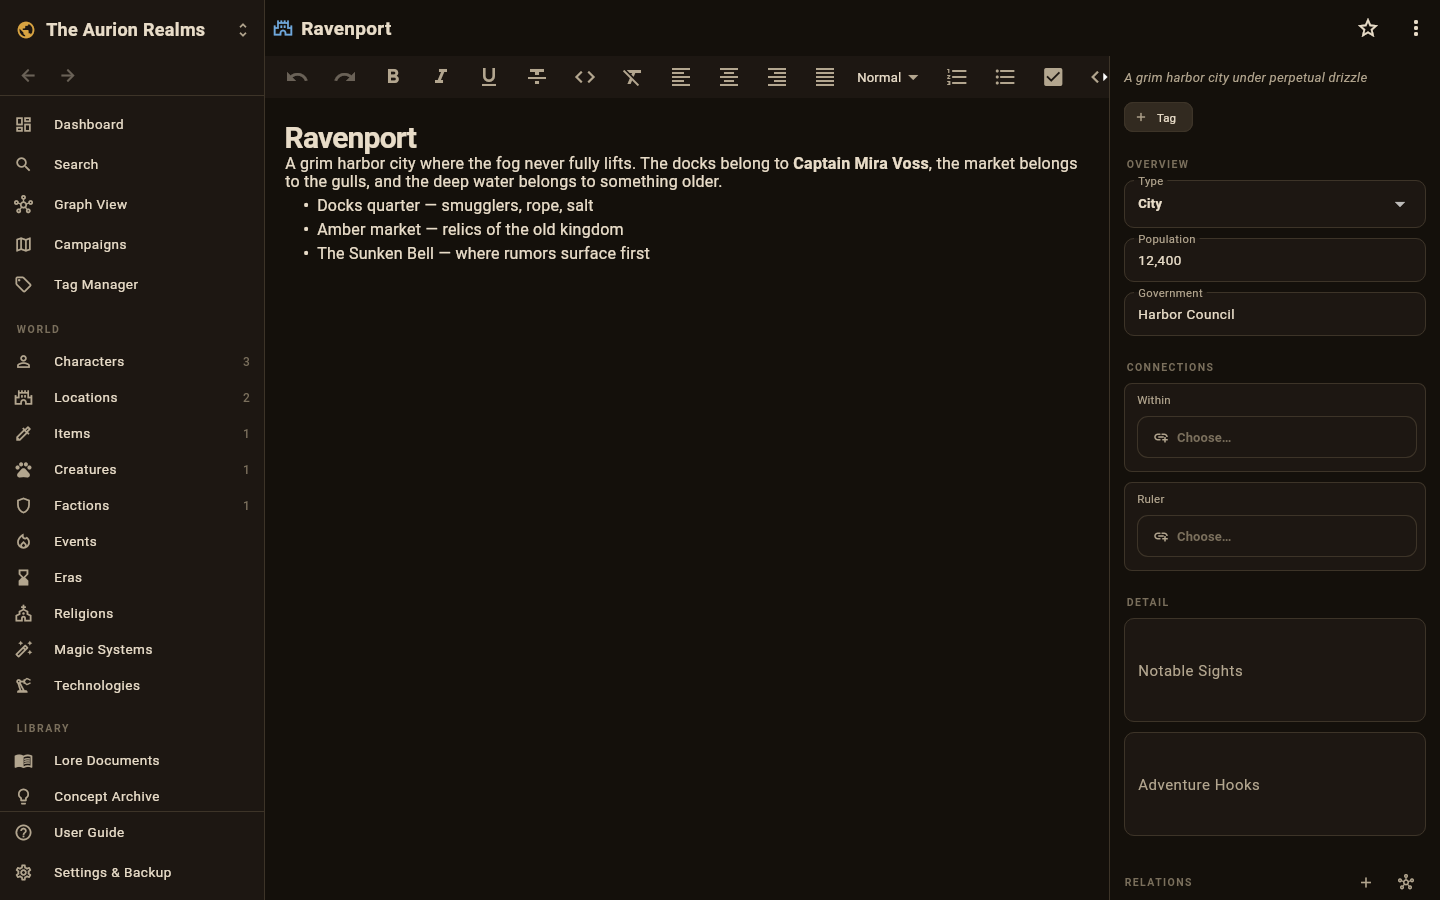
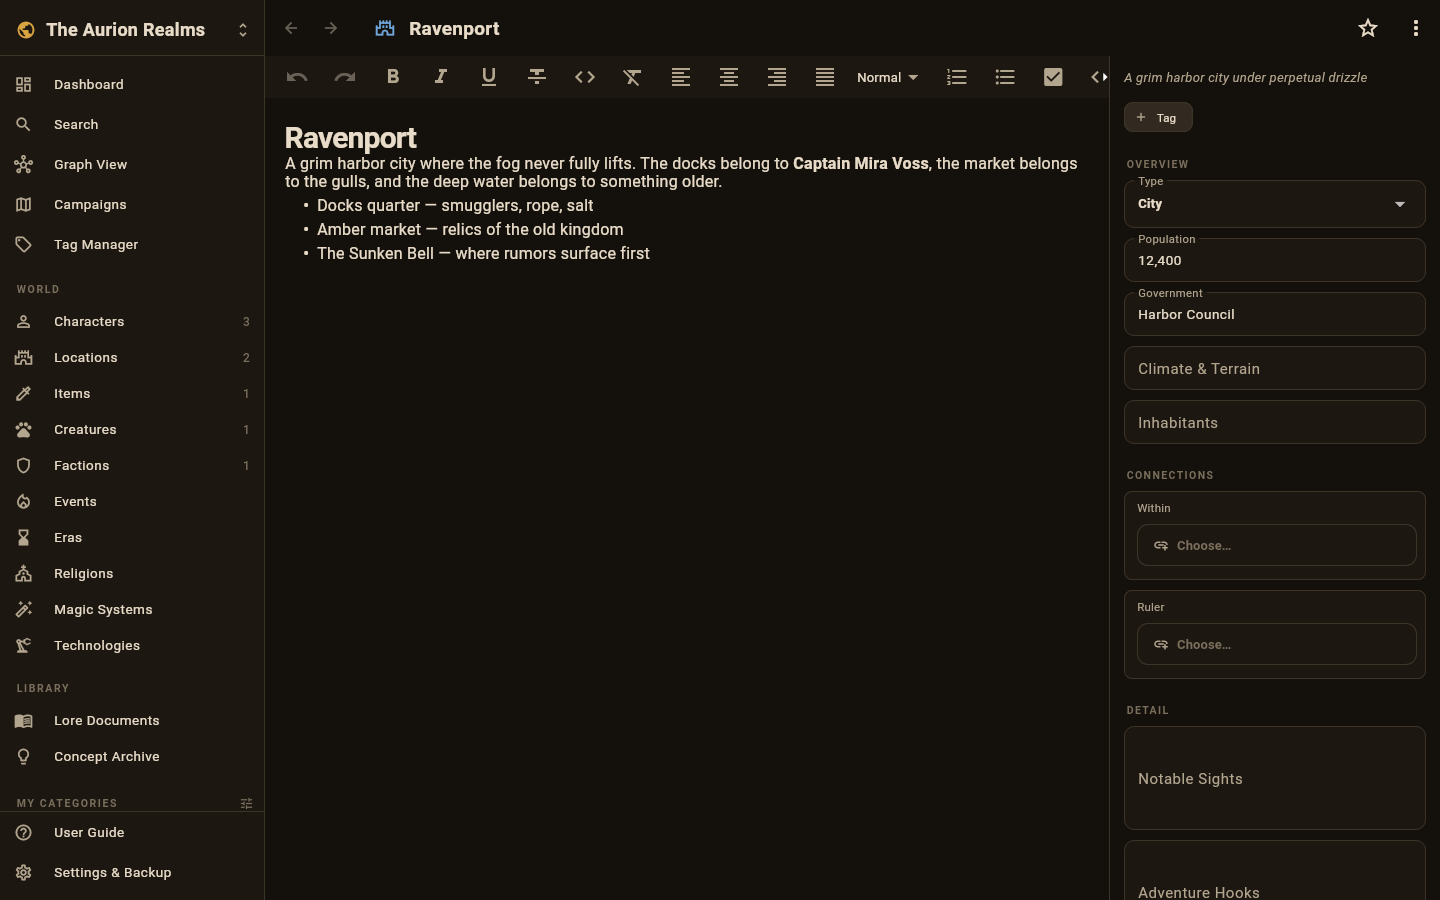
Navigation polish: browser-style chrome where users expect it
* Back/Forward arrows moved from the sidebar to the top-left of every
  page's app bar (list, entry, search, graph, campaigns, settings, help,
  dashboard) — the browser/Obsidian position; the rail and bottom bar
  keep their compact copies, the sidebar row is gone.
* The kind icon in an entry's app bar is now a breadcrumb: click to jump
  to that entry's section list (tooltip shows the section name,
  including custom categories).
* Ctrl+K / Cmd+K jumps to the current world's search from anywhere.
* Mouse side buttons (back/forward) walk the navigation history, like in
  every browser.
* User-guide tips updated in all five languages.

diff --git a/lib/app/app.dart b/lib/app/app.dart
@@ -1,5 +1,6 @@
 import 'dart:async';
 
+import 'package:flutter/gestures.dart';
 import 'package:flutter/material.dart';
 import 'package:flutter/services.dart';
 import 'package:flutter_quill/flutter_quill.dart';
@@ -34,6 +35,10 @@ class _ForwardIntent extends Intent {
   const _ForwardIntent();
 }
 
+class _QuickSearchIntent extends Intent {
+  const _QuickSearchIntent();
+}
+
 
 class _GmhAppState extends ConsumerState<GmhApp> {
   late final GoRouter _router =
@@ -60,6 +65,14 @@ class _GmhAppState extends ConsumerState<GmhApp> {
   void dispose() {
     _router.dispose();
     super.dispose();
+  }
+
+  /// Ctrl/Cmd+K: jump to the current world's search from anywhere.
+  void _goToSearch() {
+    final location = _router.routerDelegate.currentConfiguration.uri.path;
+    final worldId =
+        RegExp(r'^/w/([^/]+)/').firstMatch(location)?.group(1);
+    if (worldId != null) _router.go(Routes.search(worldId));
   }
 
   /// App-level fallback for [DismissIntent]: reached only when nothing
@@ -93,6 +106,11 @@ class _GmhAppState extends ConsumerState<GmhApp> {
             const _BackIntent(),
         LogicalKeySet(LogicalKeyboardKey.alt, LogicalKeyboardKey.arrowRight):
             const _ForwardIntent(),
+        // Quick switch to search, the Obsidian/Notion muscle-memory combo.
+        LogicalKeySet(LogicalKeyboardKey.control, LogicalKeyboardKey.keyK):
+            const _QuickSearchIntent(),
+        LogicalKeySet(LogicalKeyboardKey.meta, LogicalKeyboardKey.keyK):
+            const _QuickSearchIntent(),
       },
       actions: {
         ...WidgetsApp.defaultActions,
@@ -104,6 +122,8 @@ class _GmhAppState extends ConsumerState<GmhApp> {
                 ref.read(navHistoryProvider.notifier).goForward()),
         DismissIntent: CallbackAction<DismissIntent>(
             onInvoke: (_) => _onEscape()),
+        _QuickSearchIntent: CallbackAction<_QuickSearchIntent>(
+            onInvoke: (_) => _goToSearch()),
       },
       debugShowCheckedModeBanner: false,
       theme: GmhTheme.light(),
@@ -117,7 +137,19 @@ class _GmhAppState extends ConsumerState<GmhApp> {
         // whenever this builder runs after the shell set the style.
         GmhColors.palette = GmhStyle.paletteFor(
             GmhStyle.current, Theme.of(context).brightness);
-        return child!;
+        // Mouse side buttons navigate history, like in every browser.
+        return Listener(
+          behavior: HitTestBehavior.translucent,
+          onPointerDown: (event) {
+            if (event.kind != PointerDeviceKind.mouse) return;
+            if (event.buttons == kBackMouseButton) {
+              ref.read(navHistoryProvider.notifier).goBack();
+            } else if (event.buttons == kForwardMouseButton) {
+              ref.read(navHistoryProvider.notifier).goForward();
+            }
+          },
+          child: child!,
+        );
       },
       routerConfig: _router,
       locale: locale,

diff --git a/lib/features/shell/app_shell.dart b/lib/features/shell/app_shell.dart
@@ -13,6 +13,7 @@ import '../../app/nav_state.dart';
 import '../categories/category_ui.dart';
 import '../tags/tag_manager_sheet.dart';
 import '../categories/manage_categories_sheet.dart';
+import 'history_buttons.dart';
 import 'ui_providers.dart';
 
 /// Adaptive navigation shell:
@@ -73,38 +74,6 @@ class AppShell extends ConsumerWidget {
     // subtree (editor state, graph simulation, scroll positions).
     return Theme(
         data: GmhStyle.themeFor(style, brightness), child: scaffold);
-  }
-}
-
-/// Browser-style back/forward controls fed by the navigation history.
-class _HistoryButtons extends ConsumerWidget {
-  final bool compact;
-  final bool vertical;
-  const _HistoryButtons({this.compact = false, this.vertical = false});
-
-  @override
-  Widget build(BuildContext context, WidgetRef ref) {
-    final history = ref.watch(navHistoryProvider);
-    final controller = ref.read(navHistoryProvider.notifier);
-    final size = compact ? 18.0 : 19.0;
-    return Flex(
-      direction: vertical ? Axis.vertical : Axis.horizontal,
-      mainAxisSize: MainAxisSize.min,
-      children: [
-        IconButton(
-          tooltip: '${context.l10n.navBack} (Alt+←)',
-          icon: Icon(Icons.arrow_back, size: size),
-          onPressed: history.canGoBack ? controller.goBack : null,
-          visualDensity: VisualDensity.compact,
-        ),
-        IconButton(
-          tooltip: '${context.l10n.navForward} (Alt+→)',
-          icon: Icon(Icons.arrow_forward, size: size),
-          onPressed: history.canGoForward ? controller.goForward : null,
-          visualDensity: VisualDensity.compact,
-        ),
-      ],
-    );
   }
 }
 
@@ -177,10 +146,6 @@ class _Sidebar extends ConsumerWidget {
                 ],
               ),
             ),
-          ),
-          Padding(
-            padding: const EdgeInsets.symmetric(horizontal: 8),
-            child: Row(children: const [_HistoryButtons()]),
           ),
           const Divider(),
           Expanded(
@@ -541,7 +506,7 @@ class _Rail extends StatelessWidget {
             icon: Icon(Icons.public, color: GmhColors.ember),
             onPressed: () => context.go(Routes.worlds()),
           ),
-          const _HistoryButtons(compact: true, vertical: true),
+          const HistoryButtons(compact: true, vertical: true),
         ],
       ),
       destinations: [
@@ -582,7 +547,7 @@ class _BottomNav extends StatelessWidget {
           children: [
             const Padding(
               padding: EdgeInsets.only(left: 2),
-              child: _HistoryButtons(compact: true),
+              child: HistoryButtons(compact: true),
             ),
             Expanded(
               child: NavigationBar(

diff --git a/lib/l10n/app_localizations_ru.dart b/lib/l10n/app_localizations_ru.dart
@@ -1253,7 +1253,7 @@ class AppLocalizationsRu extends AppLocalizations {
 
   @override
   String get helpTipsBody =>
-      'Alt+← / Alt+→ — навигация назад и вперёд. Наберите @ в редакторе, чтобы ссылаться на записи прямо при письме. Зажмите вкладки панели, поля конструктора или плитки галереи, чтобы перетащить их. Правый клик (или долгое нажатие) по вложению — переименование, замена, обложка. Переключатель сетка/список запоминается для каждого раздела. Сортировка, фильтры и выбранная кампания тоже запоминаются — приложение всегда открывается там, где вы остановились.';
+      'Alt+← / Alt+→ — навигация назад и вперёд. Наберите @ в редакторе, чтобы ссылаться на записи прямо при письме. Зажмите вкладки панели, поля конструктора или плитки галереи, чтобы перетащить их. Правый клик (или долгое нажатие) по вложению — переименование, замена, обложка. Переключатель сетка/список запоминается для каждого раздела. Сортировка, фильтры и выбранная кампания тоже запоминаются — приложение всегда открывается там, где вы остановились. Ctrl+K мгновенно открывает поиск; боковые кнопки мыши листают историю, а стрелки навигации — слева вверху каждой страницы.';
 
   @override
   String get helpScreenshotCaption =>

diff --git a/lib/features/entities/entity_screen.dart b/lib/features/entities/entity_screen.dart
@@ -11,6 +11,7 @@ import '../../domain/models/document_model.dart';
 import '../../domain/models/entity.dart';
 import '../categories/category_ui.dart';
 import '../editor/lore_editor.dart';
+import '../shell/history_buttons.dart';
 import '../shell/ui_providers.dart';
 import '../attachments/attachments_panel.dart';
 import '../../domain/models/entity_kind.dart';
@@ -147,11 +148,35 @@ class _EntityScaffold extends ConsumerWidget {
     final isWide = MediaQuery.sizeOf(context).width >= 980;
 
     final appBar = AppBar(
+      leading: historyLeading(),
+      leadingWidth: kHistoryLeadingWidth,
       titleSpacing: 8,
       title: Row(
         children: [
-          Icon(entity.kind.icon, color: entity.kind.color, size: 20),
-          const SizedBox(width: 8),
+          // Breadcrumb: the kind icon jumps to the entry's section list —
+          // the same "click the crumb to go up a level" affordance as in
+          // Notion/Obsidian.
+          IconButton(
+            tooltip: entity.kind == EntityKind.custom
+                ? (ref
+                        .watch(categoryMapProvider(worldId))[
+                            entity.customCategoryId]
+                        ?.name ??
+                    entity.kind.localizedPlural(context))
+                : entity.kind.localizedPlural(context),
+            icon: Icon(entity.kind.icon, color: entity.kind.color, size: 20),
+            visualDensity: VisualDensity.compact,
+            onPressed: () {
+              if (entity.kind == EntityKind.custom &&
+                  entity.customCategoryId != null) {
+                context.go(Routes.browseCategory(
+                    worldId, entity.customCategoryId!));
+              } else {
+                context.go(Routes.browse(worldId, entity.kind));
+              }
+            },
+          ),
+          const SizedBox(width: 4),
           Flexible(
             child: InkWell(
               onTap: () => _rename(context, ref),

diff --git a/lib/features/shell/history_buttons.dart b/lib/features/shell/history_buttons.dart
@@ -1,0 +1,47 @@
+import 'package:flutter/material.dart';
+import 'package:flutter_riverpod/flutter_riverpod.dart';
+
+import '../../app/l10n_ext.dart';
+import '../../app/nav_state.dart';
+
+/// Browser-style back/forward controls fed by the navigation history.
+/// Lives at the top-left of every page's app bar (like Obsidian and the
+/// browser chrome users already know), plus the rail and the bottom bar.
+class HistoryButtons extends ConsumerWidget {
+  final bool compact;
+  final bool vertical;
+  const HistoryButtons({super.key, this.compact = false, this.vertical = false});
+
+  @override
+  Widget build(BuildContext context, WidgetRef ref) {
+    final history = ref.watch(navHistoryProvider);
+    final controller = ref.read(navHistoryProvider.notifier);
+    final size = compact ? 18.0 : 19.0;
+    return Flex(
+      direction: vertical ? Axis.vertical : Axis.horizontal,
+      mainAxisSize: MainAxisSize.min,
+      children: [
+        IconButton(
+          tooltip: '${context.l10n.navBack} (Alt+←)',
+          icon: Icon(Icons.arrow_back, size: size),
+          onPressed: history.canGoBack ? controller.goBack : null,
+          visualDensity: VisualDensity.compact,
+        ),
+        IconButton(
+          tooltip: '${context.l10n.navForward} (Alt+→)',
+          icon: Icon(Icons.arrow_forward, size: size),
+          onPressed: history.canGoForward ? controller.goForward : null,
+          visualDensity: VisualDensity.compact,
+        ),
+      ],
+    );
+  }
+}
+
+/// Standard leading slot for page app bars: back/forward at the top-left.
+const kHistoryLeadingWidth = 92.0;
+
+Widget historyLeading() => const Padding(
+      padding: EdgeInsets.only(left: 6),
+      child: HistoryButtons(compact: true),
+    );

diff --git a/lib/l10n/app_localizations_fr.dart b/lib/l10n/app_localizations_fr.dart
@@ -1255,7 +1255,7 @@ class AppLocalizationsFr extends AppLocalizations {
 
   @override
   String get helpTipsBody =>
-      'Alt+← / Alt+→ — naviguer en arrière et en avant. Tapez @ dans l\'éditeur pour lier des entrées en écrivant. Un appui long sur les onglets de la barre latérale, les champs du constructeur ou les tuiles de la galerie permet de les réordonner par glisser-déposer. Clic droit (ou appui long) sur une pièce jointe pour la renommer, la remplacer ou la définir comme couverture. La bascule grille/liste est mémorisée pour chaque section. Le tri, les filtres et la campagne sélectionnée le sont aussi — l\'application rouvre toujours là où vous vous êtes arrêté.';
+      'Alt+← / Alt+→ — naviguer en arrière et en avant. Tapez @ dans l\'éditeur pour lier des entrées en écrivant. Un appui long sur les onglets de la barre latérale, les champs du constructeur ou les tuiles de la galerie permet de les réordonner par glisser-déposer. Clic droit (ou appui long) sur une pièce jointe pour la renommer, la remplacer ou la définir comme couverture. La bascule grille/liste est mémorisée pour chaque section. Le tri, les filtres et la campagne sélectionnée le sont aussi — l\'application rouvre toujours là où vous vous êtes arrêté. Ctrl+K ouvre directement la recherche ; les boutons latéraux de la souris parcourent l\'historique et les flèches de navigation se trouvent en haut à gauche de chaque page.';
 
   @override
   String get helpScreenshotCaption =>

diff --git a/lib/l10n/app_localizations_de.dart b/lib/l10n/app_localizations_de.dart
@@ -1253,7 +1253,7 @@ class AppLocalizationsDe extends AppLocalizations {
 
   @override
   String get helpTipsBody =>
-      'Alt+← / Alt+→ – zurück und vorwärts navigieren. Im Editor @ tippen, um beim Schreiben Einträge zu verknüpfen. Seitenleisten-Tabs, Baukasten-Felder oder Galeriekacheln lange drücken und ziehen, um sie umzuordnen. Rechtsklick (oder langes Drücken) auf einen Anhang öffnet Umbenennen, Ersetzen und Titelbild. Der Raster/Liste-Umschalter wird pro Bereich gespeichert. Auch Sortierung, Filter und die gewählte Kampagne werden gemerkt – die App öffnet sich immer dort, wo Sie aufgehört haben.';
+      'Alt+← / Alt+→ – zurück und vorwärts navigieren. Im Editor @ tippen, um beim Schreiben Einträge zu verknüpfen. Seitenleisten-Tabs, Baukasten-Felder oder Galeriekacheln lange drücken und ziehen, um sie umzuordnen. Rechtsklick (oder langes Drücken) auf einen Anhang öffnet Umbenennen, Ersetzen und Titelbild. Der Raster/Liste-Umschalter wird pro Bereich gespeichert. Auch Sortierung, Filter und die gewählte Kampagne werden gemerkt – die App öffnet sich immer dort, wo Sie aufgehört haben. Strg+K springt direkt zur Suche; die Seitentasten der Maus blättern durch den Verlauf, und die Navigationspfeile sitzen oben links auf jeder Seite.';
 
   @override
   String get helpScreenshotCaption =>

diff --git a/lib/l10n/app_localizations.dart b/lib/l10n/app_localizations.dart
@@ -2291,7 +2291,7 @@ abstract class AppLocalizations {
   /// No description provided for @helpTipsBody.
   ///
   /// In en, this message translates to:
-  /// **'Alt+← / Alt+→ — navigate back and forward. Type @ in the editor to link entries as you write. Long-press sidebar tabs, constructor fields or gallery tiles to drag-reorder them. Right-click (or long-press) attachments for rename, replace and cover actions. The grid/list toggle on any section is remembered per section. Sort, filters and the selected campaign are remembered too — the app always reopens where you left it.'**
+  /// **'Alt+← / Alt+→ — navigate back and forward. Type @ in the editor to link entries as you write. Long-press sidebar tabs, constructor fields or gallery tiles to drag-reorder them. Right-click (or long-press) attachments for rename, replace and cover actions. The grid/list toggle on any section is remembered per section. Sort, filters and the selected campaign are remembered too — the app always reopens where you left it. Ctrl+K (Cmd+K on Mac) jumps straight to search; the mouse back/forward side buttons walk the history, and the navigation arrows sit at the top-left of every page.'**
   String get helpTipsBody;
 
   /// No description provided for @helpScreenshotCaption.

diff --git a/lib/l10n/app_localizations_en.dart b/lib/l10n/app_localizations_en.dart
@@ -1247,7 +1247,7 @@ class AppLocalizationsEn extends AppLocalizations {
 
   @override
   String get helpTipsBody =>
-      'Alt+← / Alt+→ — navigate back and forward. Type @ in the editor to link entries as you write. Long-press sidebar tabs, constructor fields or gallery tiles to drag-reorder them. Right-click (or long-press) attachments for rename, replace and cover actions. The grid/list toggle on any section is remembered per section. Sort, filters and the selected campaign are remembered too — the app always reopens where you left it.';
+      'Alt+← / Alt+→ — navigate back and forward. Type @ in the editor to link entries as you write. Long-press sidebar tabs, constructor fields or gallery tiles to drag-reorder them. Right-click (or long-press) attachments for rename, replace and cover actions. The grid/list toggle on any section is remembered per section. Sort, filters and the selected campaign are remembered too — the app always reopens where you left it. Ctrl+K (Cmd+K on Mac) jumps straight to search; the mouse back/forward side buttons walk the history, and the navigation arrows sit at the top-left of every page.';
 
   @override
   String get helpScreenshotCaption =>

diff --git a/lib/l10n/app_localizations_zh.dart b/lib/l10n/app_localizations_zh.dart
@@ -1212,7 +1212,7 @@ class AppLocalizationsZh extends AppLocalizations {
 
   @override
   String get helpTipsBody =>
-      'Alt+← / Alt+→——前后导航。在编辑器中输入@即可边写边链接条目。长按侧边栏标签、构建器字段或图库磁贴即可拖动排序。右键（或长按）附件可进行重命名、替换和设为封面等操作。每个版块的网格／列表切换都会分别记住。排序、筛选和所选战役同样会被记住——应用总会回到你上次离开的地方。';
+      'Alt+← / Alt+→——前后导航。在编辑器中输入@即可边写边链接条目。长按侧边栏标签、构建器字段或图库磁贴即可拖动排序。右键（或长按）附件可进行重命名、替换和设为封面等操作。每个版块的网格／列表切换都会分别记住。排序、筛选和所选战役同样会被记住——应用总会回到你上次离开的地方。Ctrl+K 可直接打开搜索；鼠标侧键可前进后退，导航箭头位于每页左上角。';
 
   @override
   String get helpScreenshotCaption => '应用截图（英文界面）';

diff --git a/lib/features/search/search_screen.dart b/lib/features/search/search_screen.dart
@@ -16,6 +16,7 @@ import '../../domain/models/search_result.dart';
 import '../categories/category_ui.dart';
 import '../entities/widgets/new_entity_dialog.dart';
 import '../tags/tag_manager_sheet.dart';
+import '../shell/history_buttons.dart';
 import '../shell/ui_providers.dart';
 
 /// Global full-text search across every entity — names, summaries, document
@@ -122,7 +123,11 @@ class _SearchScreenState extends ConsumerState<SearchScreen> {
         ref.watch(recentEntitiesProvider(widget.worldId)).valueOrNull ?? [];
 
     return Scaffold(
-      appBar: AppBar(title: Text(context.l10n.navSearch)),
+      appBar: AppBar(
+        leading: historyLeading(),
+        leadingWidth: kHistoryLeadingWidth,
+        title: Text(context.l10n.navSearch),
+      ),
       body: Column(
         children: [
           Padding(

diff --git a/lib/features/settings/settings_screen.dart b/lib/features/settings/settings_screen.dart
@@ -16,6 +16,7 @@ import '../../app/theme/gmh_theme.dart';
 import '../../core/constants.dart';
 import '../../core/utils/dates.dart';
 import '../../data/backup/backup_service.dart';
+import '../shell/history_buttons.dart';
 import '../shell/ui_providers.dart';
 
 /// Settings: language, manual/automatic backups, full-project export
@@ -212,7 +213,11 @@ class _SettingsScreenState extends ConsumerState<SettingsScreen> {
     final l = context.l10n;
 
     return Scaffold(
-      appBar: AppBar(title: Text(l.settingsTitle)),
+      appBar: AppBar(
+        leading: historyLeading(),
+        leadingWidth: kHistoryLeadingWidth,
+        title: Text(l.settingsTitle),
+      ),
       body: AbsorbPointer(
         absorbing: _busy,
         child: ListView(
